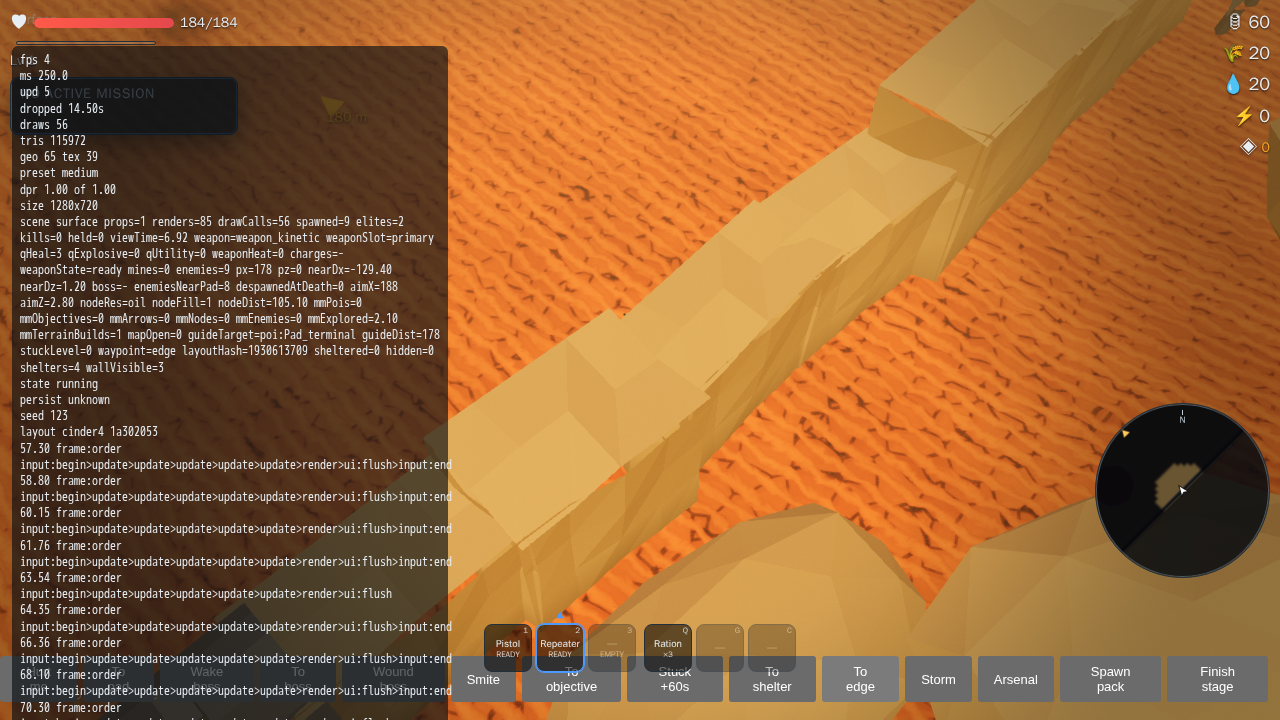
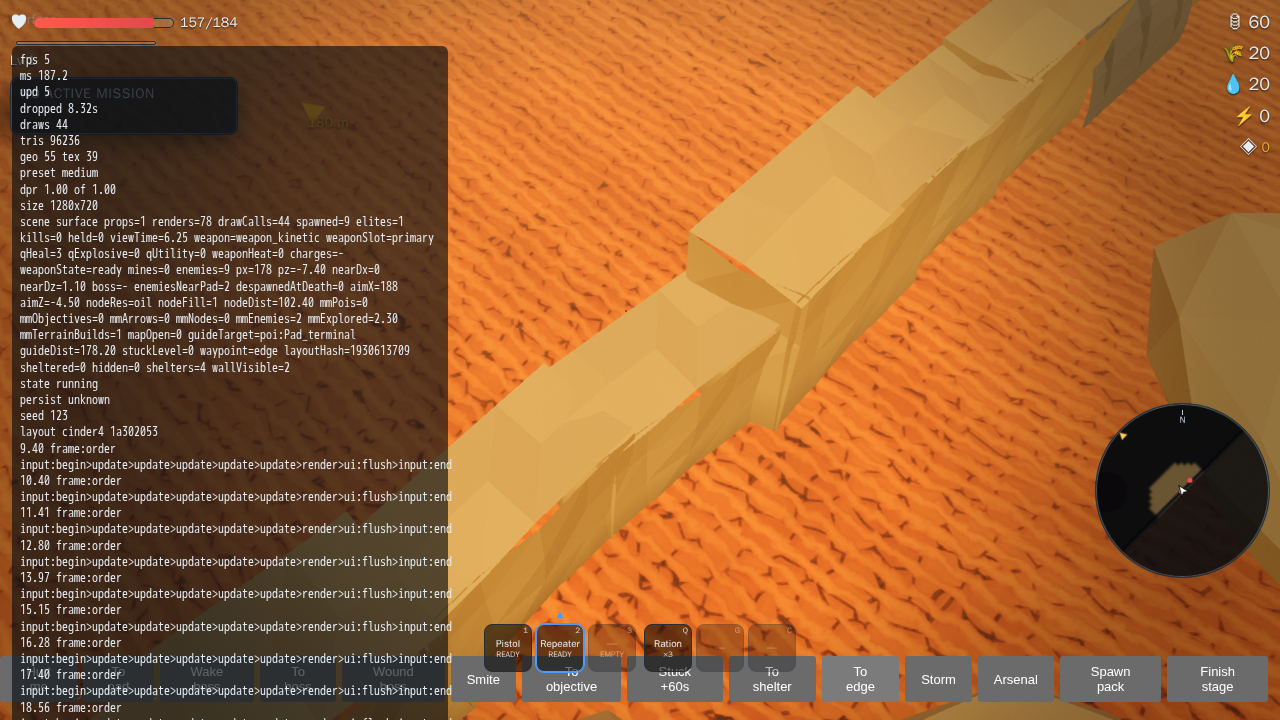
SPEC-030: re-measure the six-planet budget sweep after the culling fix
The medium rows were captured with the broken chunk spheres; with culling
on the real chunk positions every planet drops (cinder4 61 -> 49 draws,
113.9k -> 88.9k tris) and the edge-wall shot is retaken against the
reshaped hull pieces.

diff --git a/docs/playtest-log.md b/docs/playtest-log.md
@@ -752,14 +752,18 @@ assertions; `e2e/surface-env.spec.ts` holds the six-planet budget sweep.
 
 Budget: ≤ 96 draws (80 scene + 16 post) and ≤ 130 k triangles (AC-44).
 
+Re-measured after the review-round fix moved the chunk spheres onto
+`InstancedMesh.boundingSphere` — culling now tracks the real chunk positions,
+so the rows dropped across the board.
+
 | Planet | Draw calls | Triangles | Shelters placed |
 |---|---|---|---|
-| cinder4 | 61 | 113,906 | 4 |
-| vetra | 61 | 59,524 | 4 |
-| thessaly | 58 | 108,746 | 3 |
-| ferrum | 65 | 78,412 | 4 |
-| hive | 62 | 92,826 | 3 |
-| eden | 49 | 69,098 | 2 |
+| cinder4 | 49 | 88,868 | 4 |
+| vetra | 51 | 35,276 | 4 |
+| thessaly | 48 | 85,268 | 3 |
+| ferrum | 54 | 54,820 | 4 |
+| hive | 53 | 77,278 | 3 |
+| eden | 37 | 43,822 | 2 |
 
 ### Shots
 
